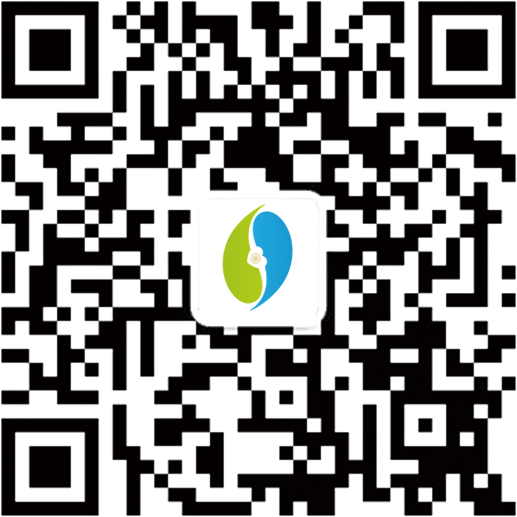
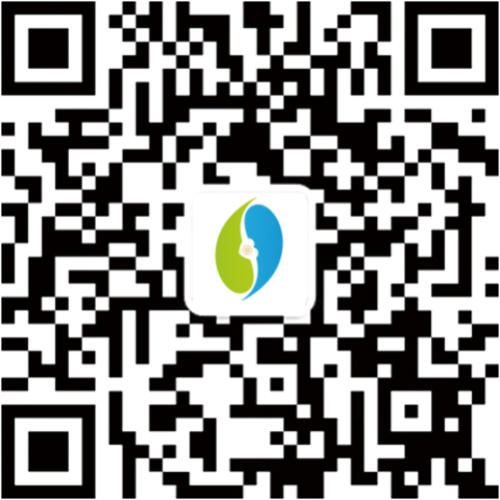
页脚小工具

Changed region(s): [[0.63, 0.39, 0.66, 0.42], [0.39, 0.33, 0.42, 0.36]]

diff --git a/米兔/米兔.html b/米兔/米兔.html
@@ -66,39 +66,81 @@
         <div id="title">
             </div>
 
-        <style id="alert-wx-css">
-            #alert-wx {
-                position: fixed;
-                top: 0;
-                left: 0;
-                width: 100%;
-                height: 100%;
-                display: flex;
-                justify-content: center;
-                align-items: center;
-                pointer-events: none;
-            }
-            #alert-wx .wx-box {
-                width: 100px;
-                height: 100px;
-                background: red;
-                pointer-events: auto;
-            }
-        </style>
-        <div id="alert-wx">
-            <div class="wx-box">
-                <t>花开福田官方微信</t>
-                <text>扫描二维码，关注花开福田微信公众号</text>
-                <img src="http://li-flower.com/wp-content/uploads/2017/11/wxid.png">
-            </div>
-        </div>
+<style id="alert-wx-css">
+    #alert-wx {
+        display: none;
+        justify-content: center;
+        align-items: center;
 
-        <a href="javascript:void(0)" id="wechat"><img src="wechat.png" style="width: 24px">微信公众号</a>
-        <script>
-            wechat.addEventListener('click', function() {
-                console.log(123)
-            }, false)
-        </script>
+        position: fixed;
+        top: 0;
+        left: 0;
+        width: 100%;
+        height: 100%;
+
+        z-index: 10;
+        pointer-events: none;
+    }
+    #alert-wx .wx-box {
+        position: relative;
+        box-sizing: border-box;
+        width: 383px;
+        height: 450px;
+        background: #FFF;
+        pointer-events: auto;
+        padding: 42px;
+        border-radius: 4px;
+        box-shadow: 0 2px 7px rgba(0,0,0,.2);
+    }
+    #alert-wx .wx-box .qr-code {
+        width: 231px;
+        height: 231px;
+    }
+    #alert-wx .wx-box t {
+        display: block;
+        font-size: 22.23px;
+        color: black;
+    }
+    #alert-wx .wx-box text {
+        display: block;
+        margin-top: 18px;
+        margin-bottom: 44px;
+    }
+    #alert-wx .wx-box .close {
+        cursor: pointer;
+        box-sizing: content-box;
+        position: absolute;
+        top: 0;
+        right: 0;
+        padding: 15px;
+        width: 13px;
+        height: 13px;
+    }
+</style>
+<div id="alert-wx">
+    <div class="wx-box">
+        <t>花开福田官方微信</t>
+        <text>扫描二维码，关注花开福田微信公众号</text>
+        <img class="qr-code" src="http://li-flower.com/wp-content/uploads/2017/11/wxid-1.png">
+        <img class="close" src="http://li-flower.com/wp-content/uploads/2017/11/close.png">
+    </div>
+</div>
+新浪微博<br>
+<a href="javascript:void(0)" id="wechat">
+    <img src="http://li-flower.com/wp-content/uploads/2017/11/wechat.png" style="width: 24px">
+    微信公众号
+</a>
+<script>
+    let _e = function(s) {
+        return document.querySelector(s)
+    }
+    _e('#wechat').addEventListener('click', function() {
+        _e('#alert-wx').style.display = 'flex'
+    }, false)
+    _e('#alert-wx .close').addEventListener('click', function() {
+        _e('#alert-wx').style.display = 'none'
+    }, false)
+</script>
 
         <div id="img1">
             <div class="text-content">
